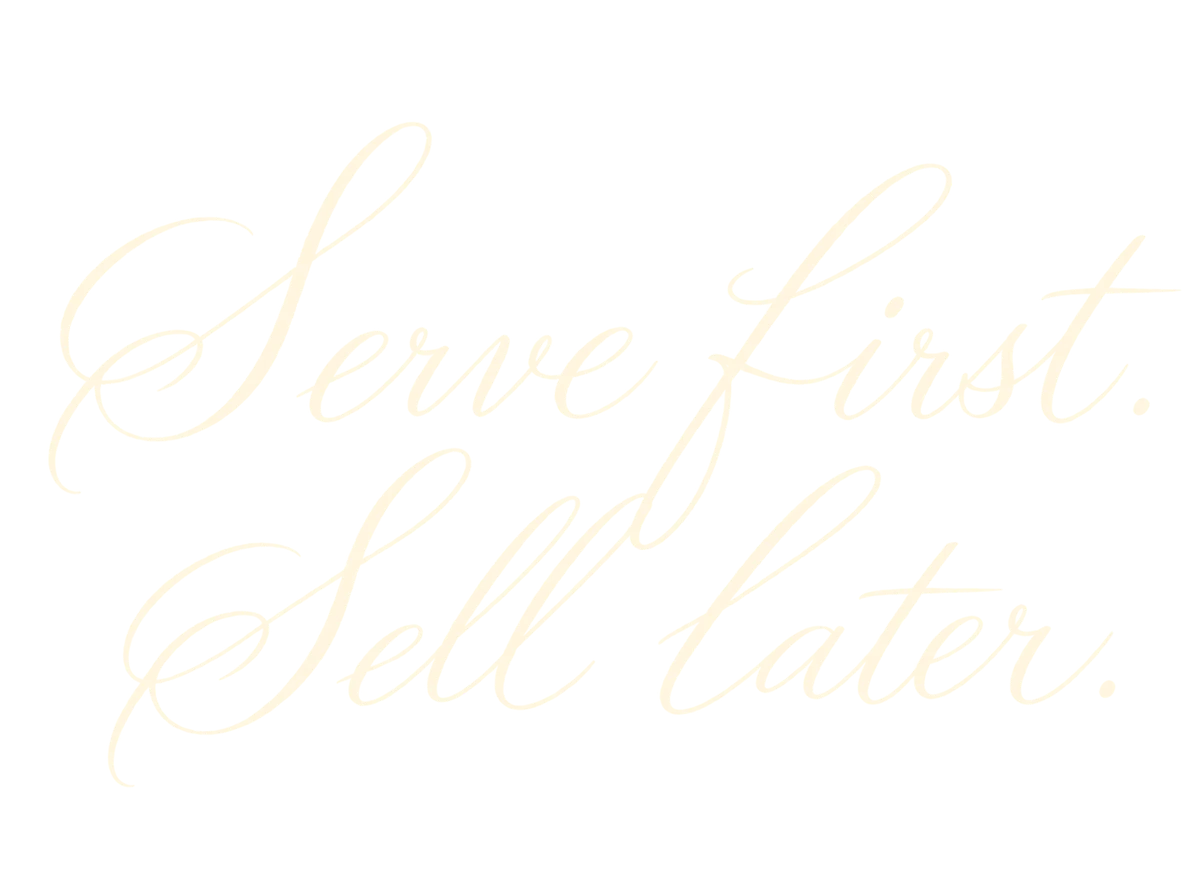
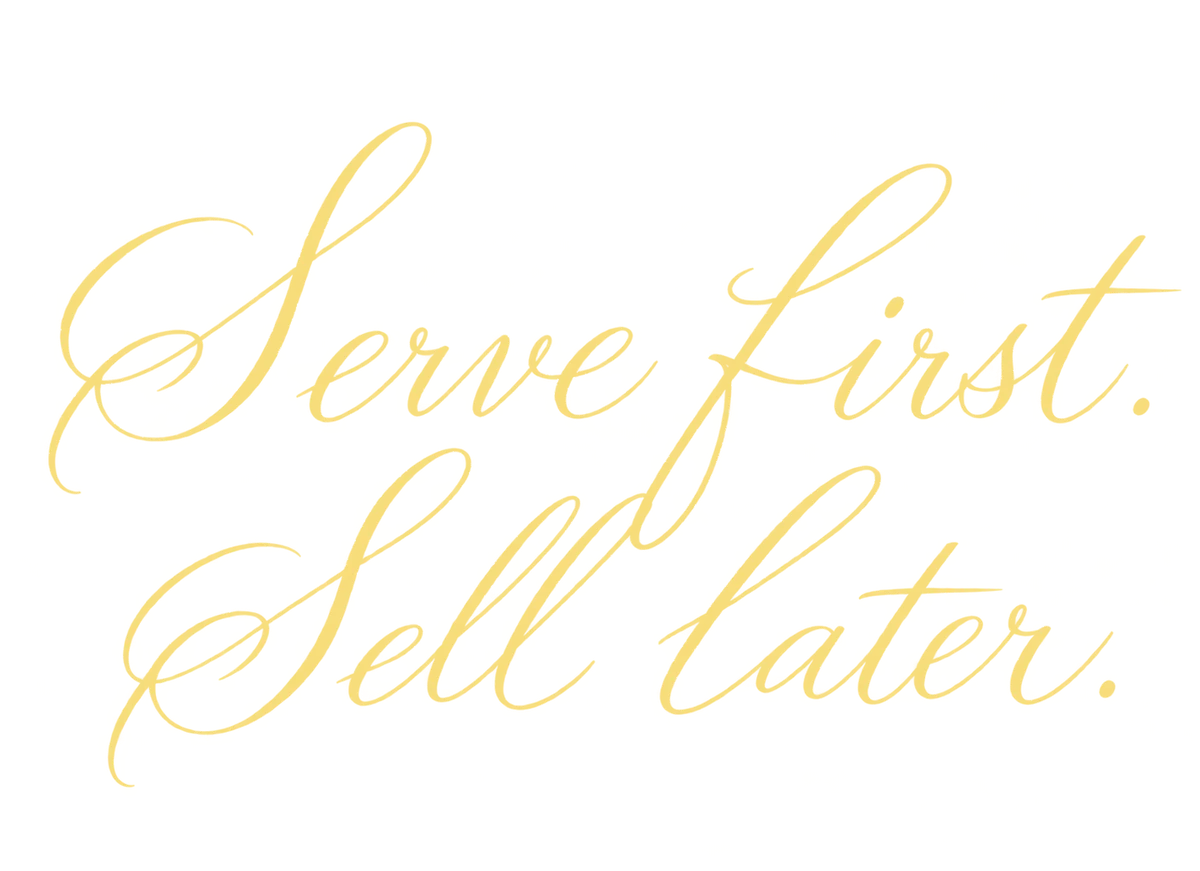
Headings in soft yellow
Claude-Session: https://claude.ai/code/session_01Tfgmd9Pi4hFCE6iu8WpJuT

diff --git a/site/index.html b/site/index.html
@@ -282,7 +282,7 @@ button:focus,button:focus-visible{outline:none}
 .sig{position:relative}
 .sig::before{content:'';position:absolute;left:0;right:0;top:0;height:max(520px,100vh);height:max(520px,100svh);background:#90a6b2 url(two.webp) center/cover no-repeat;transform:scaleY(-1);pointer-events:none}
 .sig span{position:relative;z-index:1;color:#5c2b22 !important}
-.lim{color:#fff7df !important}
+.lim{color:#f8dc78 !important}
 img,video,picture,svg,.one,.one *,.sig,.sig *,.wheel{-webkit-user-select:none;user-select:none;-webkit-user-drag:none;-webkit-touch-callout:none}
 img::selection,.one ::selection{background:transparent}
 @media (prefers-reduced-motion:reduce){html{scroll-snap-type:none}.js .two .mid > *,.js .two .base{opacity:1;transform:none;transition:none}}
